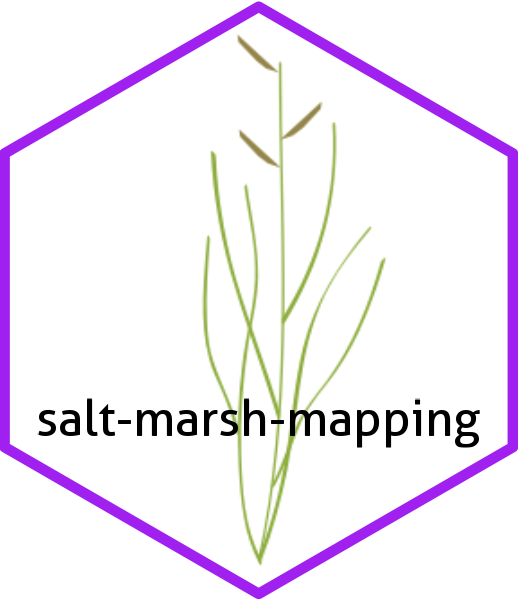
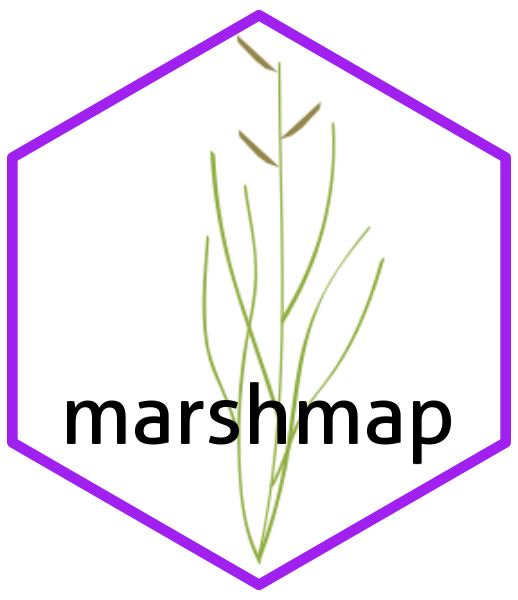
Change repo and project name from salt-marsh-mapping to marshmap

diff --git a/README.md b/README.md
@@ -1,10 +1,10 @@
-# salt-marsh-mapping 
-<a href="https://github.com/UMass-UAS-Salt-Marsh/salt-marsh-mapping/"><img src="man/figures/hexsticker.png" align="right" height="150" style="float:right; height:150px;"></a>
+# marshmap
+<a href="https://github.com/UMass-UAS-Salt-Marsh/marshmap/"><img src="man/figures/hexsticker.png" align="right" height="150" style="float:right; height:150px;"></a>
 
 
 UMass UAS Salt Marsh Project salt marsh land cover mapping
 
-`salt-marsh-mapping` is a special-purpose package for the vegetation mapping component of the UMass
+`marshmap` is a special-purpose package for the vegetation mapping component of the UMass
 UAS Salt Marsh project. This project uses UAS (Unoccupied Aerial Systems), a.k.a "drones," with a
 number of sensors, along with field transects to drive vegetation cover models at several salt
 marshes in Massachusetts.
@@ -21,7 +21,7 @@ This documentation is a work in progress.
 
 ```
 # install.packages("devtools")
-devtools::install_github('UMass-UAS-Salt-Marsh/salt-marsh-mapping')
+devtools::install_github('UMass-UAS-Salt-Marsh/marshmap')
 devtools::install_github('UMassCDS/slurmcollie')                                    # a companion package required for running batch jobs on Unity
 devtools::install_github('rspatial/terra')                                          # need this until 1.8-73 is released on CRAN
 devtools::install_github('bwcompton/batchtools', ref = 'bwcompton-robust-sbatch')   # while waiting for pull request
